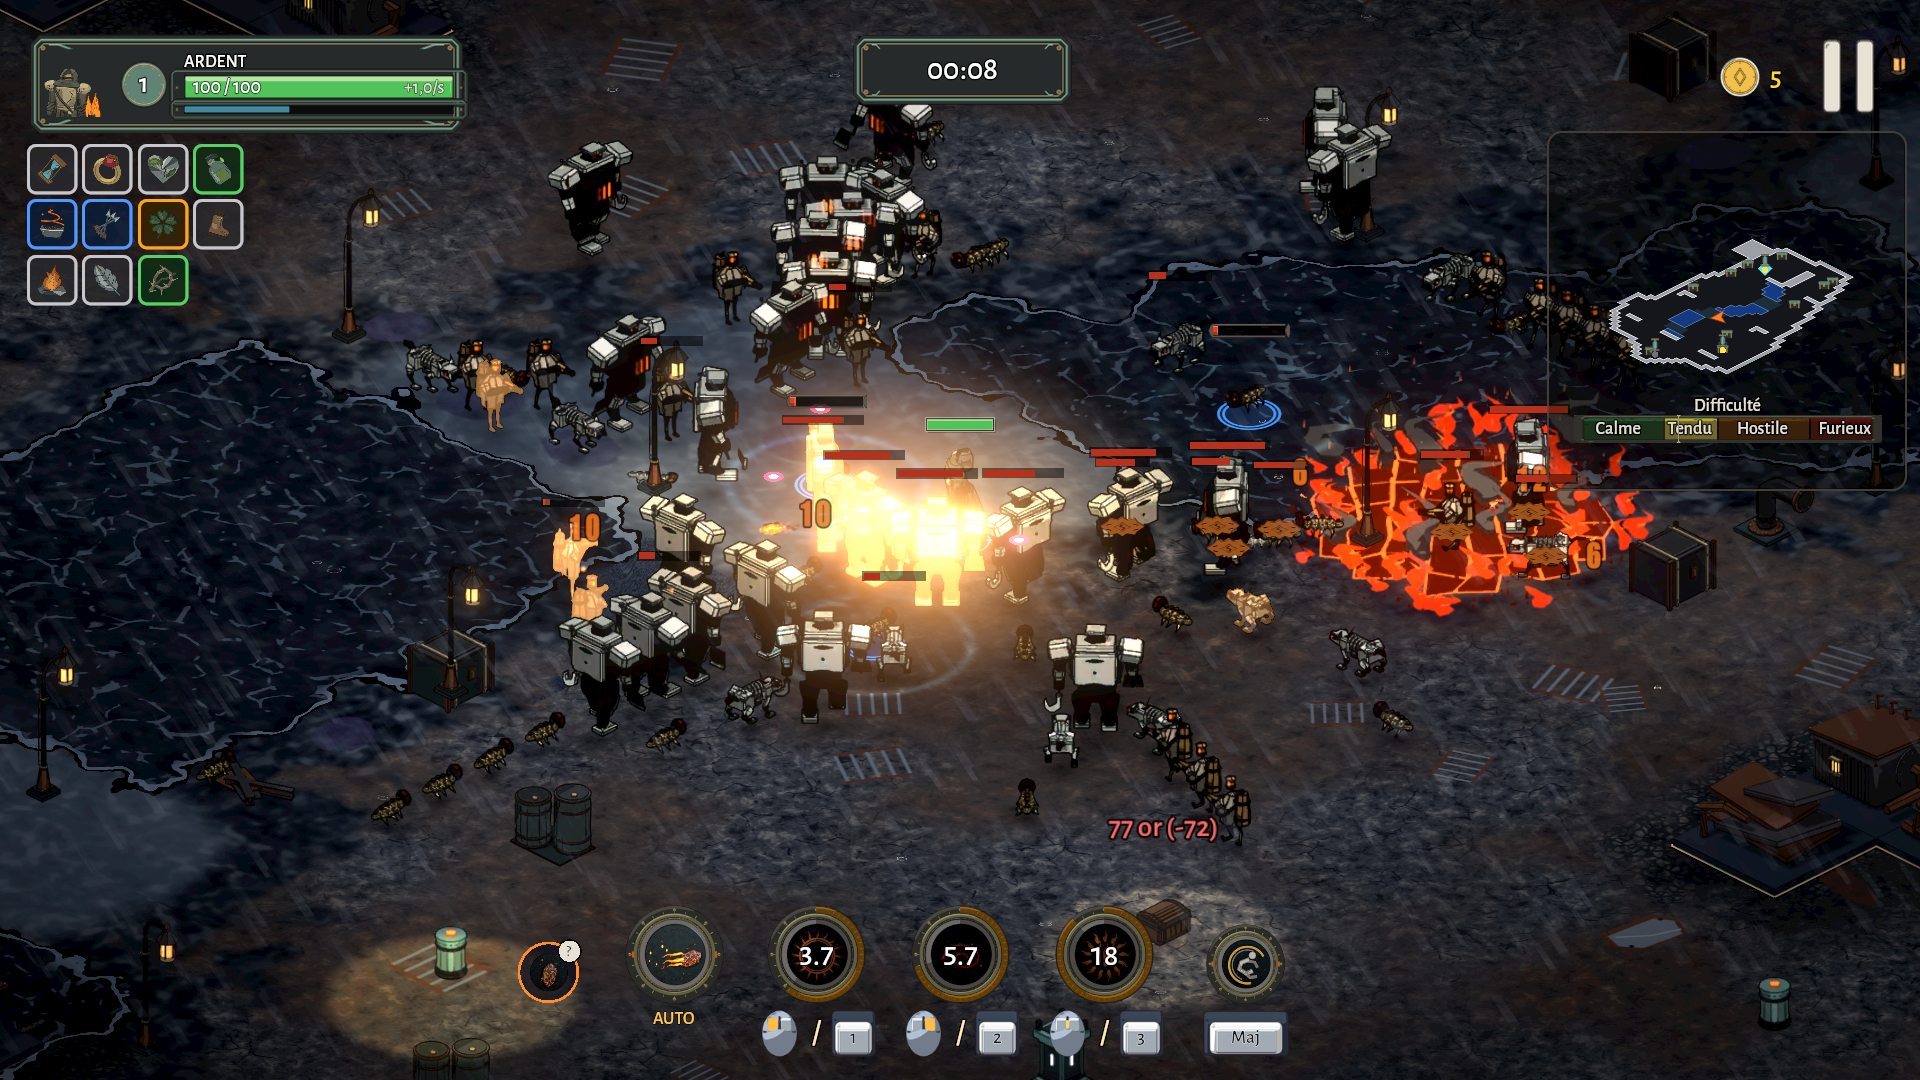
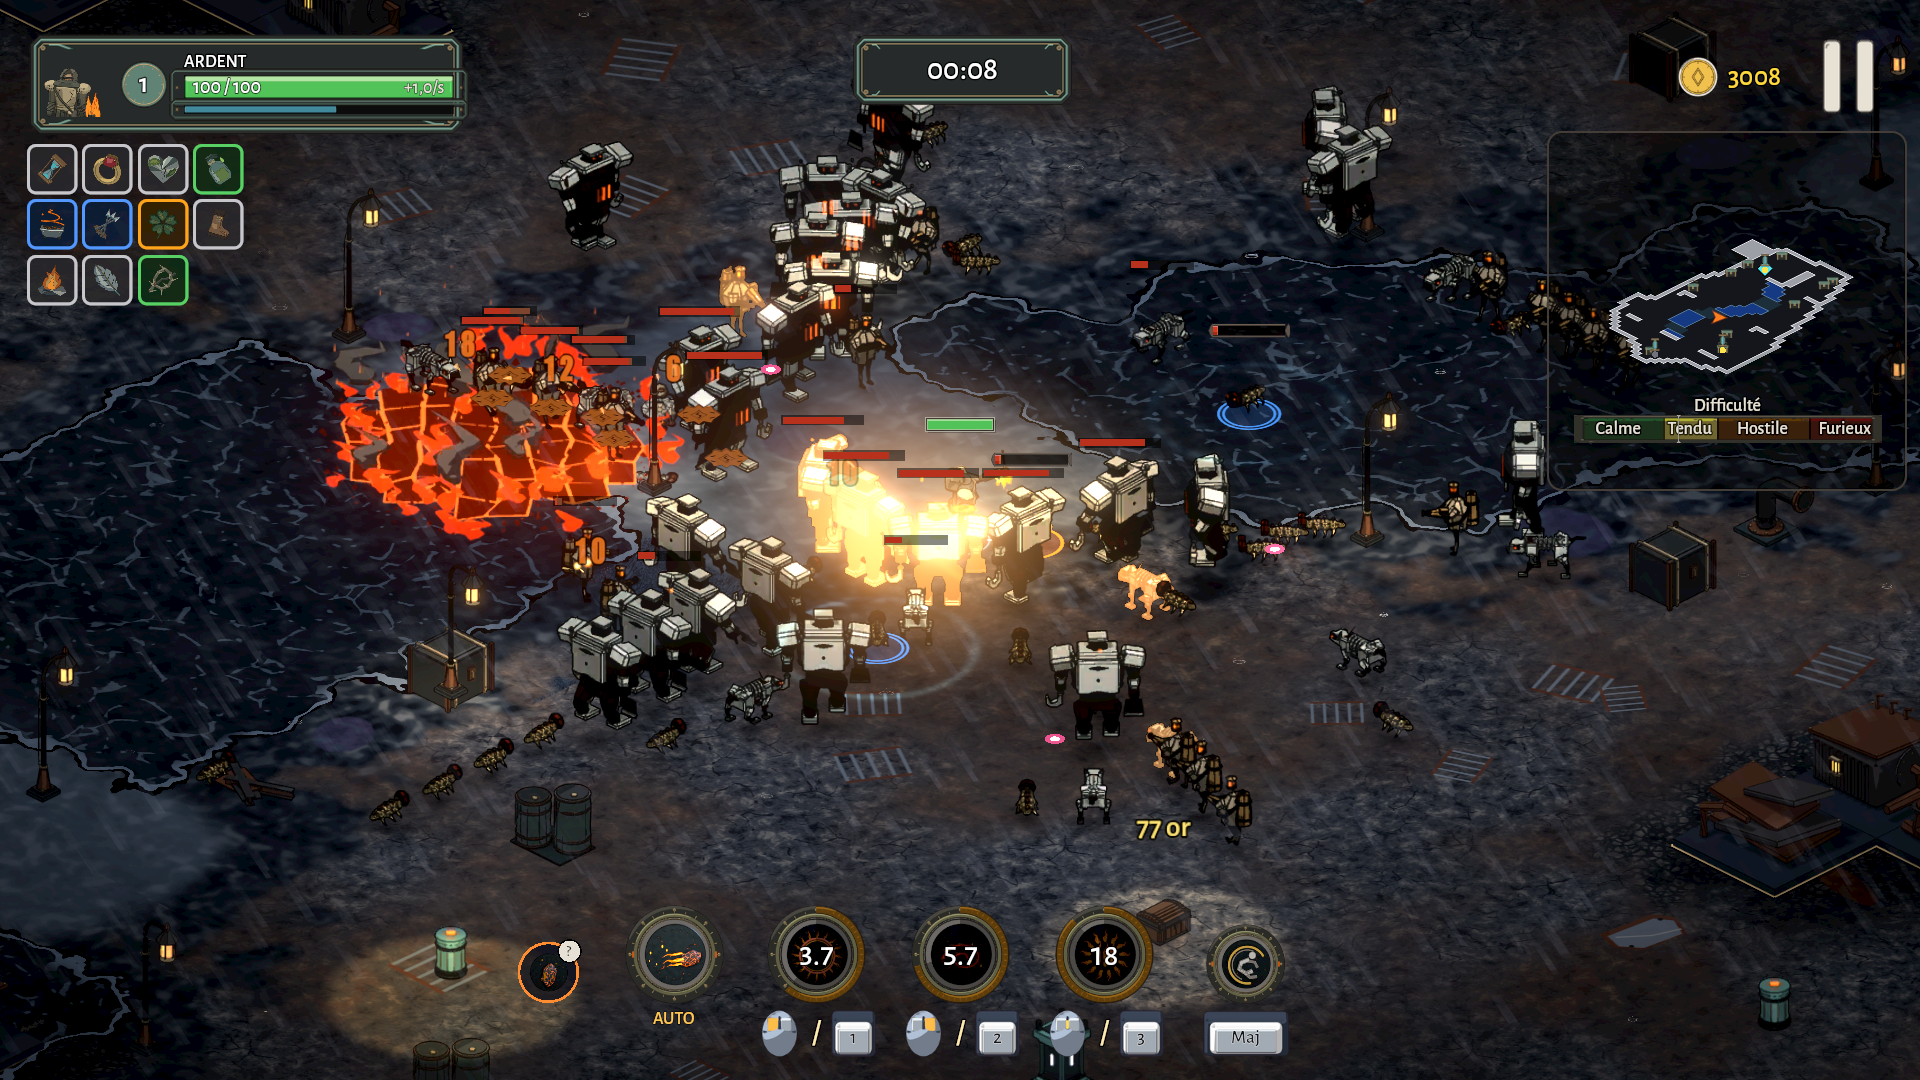
Captures store : or réaliste (prix non rouges), fin de run crédible, flash du boss final évité, coop à 4 min

diff --git a/docs/store/README.md b/docs/store/README.md
@@ -58,8 +58,8 @@ sh art/tools/vfx_test/godot_locked.sh res://tests/capture_store_menu.tscn -- --o
 
 - Les PNG ne sont pas recompressés (aucun optimiseur PNG installé) : 0,4 à 2,8 Mo chacun, sous les limites de Steam.
 - Variante B de la forêt (`foret_mangrove_lanternes`) : pas de repère, non capturée. Variante B des Cryptes : non retenue.
-- Fin de run (13) : chiffres de mise en scène incohérents entre eux (00:04, niveau 1, 1873 monstres) ; à ne pas retenir en vitrine telle quelle.
-- Étiquettes de prix de coffre « N or (-N) » visibles sur les captures de run (or du joueur à 0).
+- Fin de run (13) : victoire mise en scène (étage 5, 19:30, niveau 28, 11 piliers) ; les rubis viennent du vrai calcul (`PartyRecap.rubies`), le niveau du HUD derrière est forcé.
+- Chaque joueur reçoit 3000 or avant la capture : les prix s'affichent en jaune, sans « (-N) ». Coop : horloge forcée à 4 min, niveaux restés bas.
 - Les captures de run affichent le niveau 1 et peu d'or : les objets sont donnés d'office, pas gagnés.
 - La texture d'ombre `shadow_blob_256` est signalée absente au lancement (repli neutre), sans effet visible sur ces images.
 - L'écran titre n'est pas retenu : il affiche le bouton « Mode test » et « Version 0.1.0 » (à retirer avant la sortie, voir CLAUDE.md).
